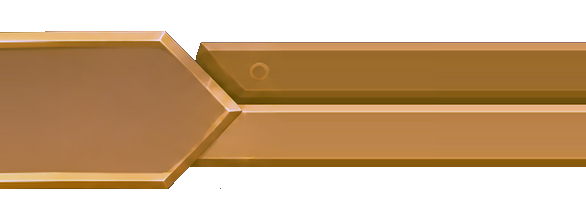
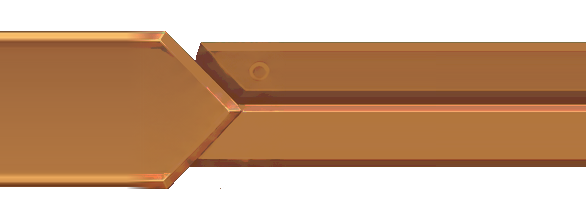
Title bar kit v2: middle rebuilt from the real Overlord Profile art (colours + rim sizes), caps matched
Claude-Session: https://claude.ai/code/session_01JamU3DGA95eo1q8PxeEFBV

Changed region(s): [[0.0, 0.1389, 1.0, 0.6389], [0.0, 0.7222, 1.0, 0.8889]]

diff --git a/art/originals/ui/titlebar/README.md b/art/originals/ui/titlebar/README.md
@@ -1,5 +1,5 @@
 # Title bar kit (Nov 2026)
 - From ChatGPT (kit_gpt_v1.png, ref = Overlord Profile header). No blue brackets (Harley).
 - Pieces (216 px tall canvas): tb2_cap_long_left/right (bar runs off screen), tb2_middle (stretch), tb2_cap_short_left/right (staggered bracket stub that just pokes past a menu edge), oct.png (blank socket), arrow.png (back arrow).
-- Recoloured to the Overlord Profile bar (body #A27349, rims #EABF82); *_gptcolour.png = ChatGPT's original colours. Dark outline band trimmed off.
+- v2 (Harley: size and colour still off): tb2_middle is rebuilt from the REAL Overlord Profile art (art/originals/ui/profile_gpt/background_baked_from_original.png, rows 18-91, x 470-820) - its exact colours, thin rims and lip, plus ChatGPT's texture; the caps are histogram-matched to it and their straight part is the new middle. *_gptcolour.png = ChatGPT's original colours.
 - Same thickness as the Overlord Profile bar = show the 216 canvas at ~48 CSS px tall (phone webps in art/ui are 143 px = 3x).
